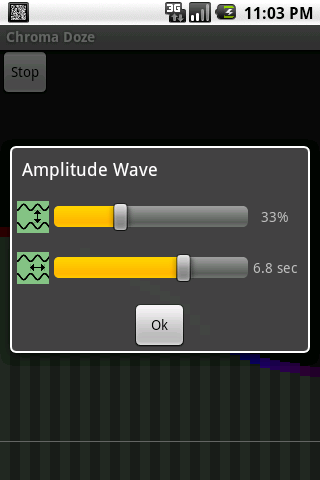
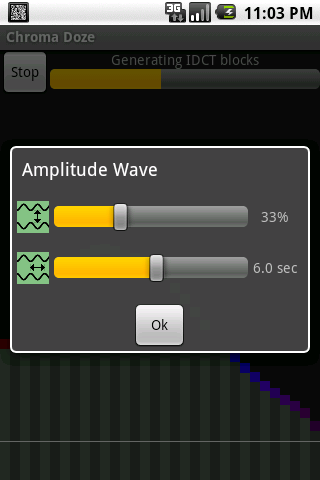
- Map the period bar to more human-friendly points.

diff --git a/src/net/pmarks/chromadoze/UIState.java b/src/net/pmarks/chromadoze/UIState.java
@@ -26,13 +26,13 @@ public class UIState {
 
     private boolean mBarsChanged = false;
     private boolean mSendEnabled = false;
-    private Context mContext;
+    private final Context mContext;
 
     // The current value of each bar, [0.0, 1.0]
-    private float mBars[] = new float[BAND_COUNT];
+    private final float mBars[] = new float[BAND_COUNT];
 
     private int mMinVol = 100;
-    private int mPeriod = 50;
+    private int mPeriod = 18;  // Maps to 1 second
 
     public UIState(Context context) {
         mContext = context;
@@ -51,7 +51,7 @@ public class UIState {
             mBars[i] = pref.getFloat("barHeight" + i, .5f);
         }
         mMinVol = pref.getInt("minVol", 100);
-        mPeriod = pref.getInt("period", 50);
+        mPeriod = pref.getInt("period", 18);
     }
 
     public void startSending() {
@@ -135,24 +135,29 @@ public class UIState {
         if (s >= 1f) {
             return String.format("%.2g sec", s);
         } else {
-            return String.format("%d ms", (int)(s * 1000));
+            return String.format("%d ms", Math.round(s * 1000));
         }
     }
 
     private float getPeriodSeconds() {
-        // Map [0, 100] to a logarithmic scale.
-        float s = 2f * (float)Math.pow(30, (mPeriod - 50) / 50f);
-        if (s < 1f) {
-            // Round to 10ms
-            s = Math.round(s * 100f) / 100f;
-        } else if (s >= 10f) {
-            // Round to the second.
-            s = Math.round(s);
+        // This is a somewhat human-friendly mapping from
+        // scroll position to seconds.
+        if (mPeriod < 9) {
+            // 10ms, 20ms, ..., 90ms
+            return (mPeriod + 1) * .010f;
+        } else if (mPeriod < 18) {
+            // 100ms, 200ms, ..., 900ms
+            return (mPeriod - 9 + 1) * .100f;
+        } else if (mPeriod < 36) {
+            // 1.0s, 1.5s, ..., 9.5s
+            return (mPeriod - 18 + 2) * .5f;
+        } else if (mPeriod < 45) {
+            // 10, 11, ..., 19
+            return (mPeriod - 36 + 10) * 1f;
         } else {
-            // Round to 0.1s
-            s = Math.round(s * 10f) / 10f;
+            // 20, 25, 30, ... 60
+            return (mPeriod - 45 + 4) * 5f;
         }
-        return s;
     }
 
     private void sendToService() {
